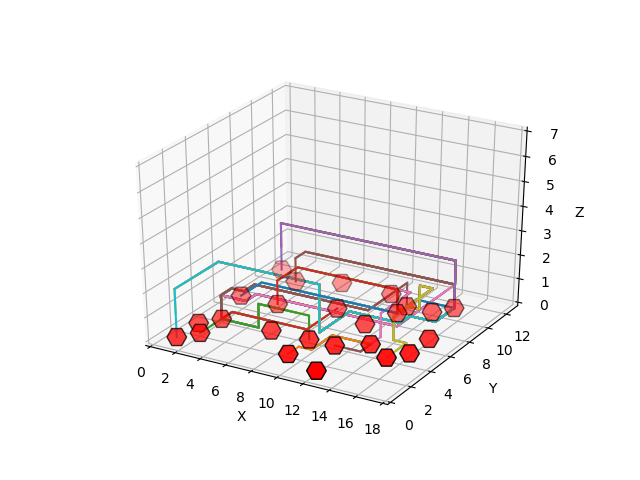
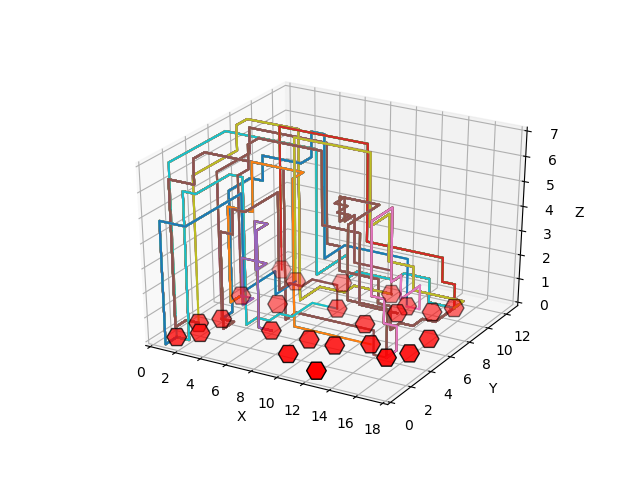
new between and new cost

Changed region(s): [[0.25, 0.25, 0.7188, 0.75]]

diff --git a/code/algorithms/astar.py b/code/algorithms/astar.py
@@ -1,5 +1,6 @@
 from heapq import heappush, heappop
 from math import sqrt
+from random import shuffle
 
 
 def pythagoras(current, end):
@@ -11,6 +12,7 @@ def pythagoras(current, end):
 
 
 def manhattan_distance(current, end):
+	""" Determine the manhattan distance between two points. """
 
 	heuristic = abs(current[0] - end[0]) + abs(current[1] - end[1]) + abs(current[2] - end[2])
 
@@ -18,6 +20,7 @@ def manhattan_distance(current, end):
 
 
 def distance_to_gate(gates, current, start, end, occurance_gate):
+	""" Protect points around gates that need to be accessible for multiple wires. """
 
 	heuristic = manhattan_distance(current, end)
 	for gate in gates:
@@ -69,7 +72,7 @@ def make_neighbours(grid, parent, current, end):
 
 
 def astar(gates, grid, start, end, occurance_gate):
-	""" A* """
+	""" A* for connecting gates on a grid. """
 
 	Q = []
 
@@ -80,10 +83,16 @@ def astar(gates, grid, start, end, occurance_gate):
 
 		neighbours = make_neighbours(grid, current_path[len(current_path) - 2], current_path[-1], end)
 
+		# stop if there are no neighbours for the current point, to decrease runtime and continue trying other nets
 		if not neighbours:
 			return [(0, 0, 0)]
 
+		# determine heuristic (h), cost, f for neighbours and place in heapq accordingly
 		for neighbour in neighbours:
+			
+			""" choose which function for the heuristic to use by commenting out the others """
+
+			# h = pythagoras(neighbour, end)
 			# h = manhattan_distance(neighbour, end) 
 			h = distance_to_gate(gates, neighbour, start, end, occurance_gate)
 			# h = loose_cables(current_path[-1], neighbour, end)
@@ -106,14 +115,17 @@ def execute_astar(netlist, chip, loose_layering):
 	grid = chip.grid
 	gates = chip.gates
 	output_dict = {}
-	count = 0
 
+	# determine which gates are to be connected
 	occurance_gate = {}
 	for gate in gates:
 		occurance_gate[gate] = 0
 
+	# loose_layering forces the wires through a predetermined layer
 	if loose_layering == True:
 		
+		# determine how many wires should sprout from each gate
+		# turn this off when running xyz_move!
 		for layer in netlist:
 			for net in layer:
 				occurance_gate[net[0]] += 1
@@ -124,29 +136,50 @@ def execute_astar(netlist, chip, loose_layering):
 				start = net[0]
 				end = net[1]
 
+				# for nets that are not direct neighbours create a between in a predetermined layer for equal distribution of wires
 				if manhattan_distance(start, end) > 1:
 					between = (int((start[0] + end[0]) / 2), int((start[1] + end[1]) / 2), 7 - index)
+					position_changes = [(1, 0, 0), (-1, 0, 0), (0, 1, 0), (0, -1, 0)]
+
+					# if the between point is occupied, try again with a random neighbour in x or y direction
+					if grid[between[0]][between[1]][between[2]] != False:
+						for position in position_changes:
+							new_between = (between[0] + position[0], between[1] + position[1], between[2])
+							if grid[new_between[0]][new_between[1]][new_between[2]] == False:
+								between = new_between
+								break
+
 					path_1 = astar(gates, grid, start, between, occurance_gate)
 					path_2 = astar(gates, grid, between, end, occurance_gate)
-					print("if", path_1 + path_2)
-					output_dict[net] = path_1 + path_2
+					
+					# if half of the wire was not laid, remove the other half as well
+					if path_1 == [(0, 0, 0)] or path_2 == [(0, 0, 0)]:
+						remove_path = path_1 + path_2
+						for point in remove_path:
+							grid[point[0]][point[1]][point[2]] = False
+						output_dict[net] = [(0, 0, 0)]
+						print("NEE")
+					else:
+						output_dict[net] = path_1 + path_2
+						print(path_1 + path_2)
+				
 				else:
 					path = astar(gates, grid, start, end, occurance_gate)
-					print("else", path)
 					output_dict[net] = path
+					print(path)
 
 	else:
+		# determine how many wires should sprout from each gate
+		# turn this off when running xyz_move!
 		for net in netlist:
 			occurance_gate[net[0]] += 1
 			occurance_gate[net[1]] += 1
-			
+		
+		# run astar for each net
 		for net in netlist:
 			start = net[0]
 			end = net[1]
 			path = astar(gates, grid, start, end, occurance_gate)
-			count += 1
-			print(path)
-			print(count)
 			output_dict[net] = path
 
 	return output_dict

diff --git a/code/classes/wiring.py b/code/classes/wiring.py
@@ -12,7 +12,6 @@ import csv
 
 from code.algorithms.xyz_move import xyz_wire
 from code.algorithms.astar import execute_astar
-from code.algorithms.iddfs import execute_dfs
 from code.algorithms.hillclimb import *
 
 class Wiring():
@@ -41,8 +40,6 @@ class Wiring():
 			algorithm = xyz_wire
 		elif alg_req == 'astar':
 			algorithm = execute_astar
-		elif alg_req == 'dfs':
-			algorithm = execute_dfs
 
 		return algorithm
 
@@ -53,7 +50,12 @@ class Wiring():
 		cost = 0
 
 		for net in output_dict:
-			cost += (len(output_dict[net]) - 1)
+			# penalty for missing wire: assume an 8th layer was needed, so add 16 for going up and down plus manhattan distance
+			if output_dict[net] == [(0, 0, 0)]:
+				manhattan_distance = abs(net[0][0] - net[1][0]) + abs(net[0][1] - net[1][1]) + abs(net[0][2] - net[1][2])
+				cost += (manhattan_distance + 16)
+			else:
+				cost += (len(output_dict[net]) - 1)
 
 		return cost
 
@@ -66,6 +68,5 @@ class Wiring():
 			writer = csv.DictWriter(csv_output, fieldnames=fieldnames)
 			writer.writeheader()
 
-			# write wires and nets from dictionary
 			for net, wire in output_dict.items():
 				writer.writerow({'net' : net, 'wires' : wire})

diff --git a/code/classes/netlist.py b/code/classes/netlist.py
@@ -161,14 +161,17 @@ class Netlist():
 
 		distance_list = []
 
+		# determine manhattan distance between start and end
 		for net in netlist:
 			start = net[0]
 			end = net[1]
 			distance = abs(start[0] - end[0]) + abs(start[1] - end[1]) + abs(start[2] - end[2])
 			distance_list.append((distance, net))
 
+		# sort nets by manhattan distance (largest first)
 		sorted_distance = sorted(distance_list, reverse=True)
 
+		# create a list of nets without distance
 		sorted_netlist = []
 
 		for distance_net in sorted_distance:
@@ -180,11 +183,13 @@ class Netlist():
 	def loose_layering(self, netlist):
 		""" Equal distribution of wires per layer. """
 
+		# determine how many wires per layer for equal distribution
 		rest_nets = len(netlist) % 7
 		normal_divisible = len(netlist) - rest_nets
 		cables_per_layer = int(normal_divisible / 7)
 		cables_per_layer += 1
 
+		# create a list of lists, the latter corresponding to which nets should go via which layer
 		layer_list = []
 		for x in range(7):
 			if len(netlist) < cables_per_layer:

diff --git a/main.py b/main.py
@@ -53,7 +53,7 @@ if __name__ == '__main__':
 			print("That is not an option.\n")
 
 	# does user want loose_layering
-	layering_input = input("Do you want equal distribution of wires over the layers? (y/n)\n").lower()
+	layering_input = input("Do you want equal distribution of wires over the layers? This is only possible for the astar algoritm! (y/n)\n").lower()
 	if layering_input == 'y' or layering_input == 'yes':
 		loose_layering = True
 	else:
@@ -61,8 +61,8 @@ if __name__ == '__main__':
 
 	# let user choose an algorithm
 	while True:
-		alg_req = input("Which algorithm would you like to use? (xyz_move, astar, dfs)\n").lower()
-		if alg_req == 'xyz_move' or alg_req == 'astar' or alg_req == 'dfs':
+		alg_req = input("Which algorithm would you like to use? (xyz_move, astar)\n").lower()
+		if alg_req == 'xyz_move' or alg_req == 'astar':
 			break
 		else:
 			print("This algorithm does not exist.\n")
